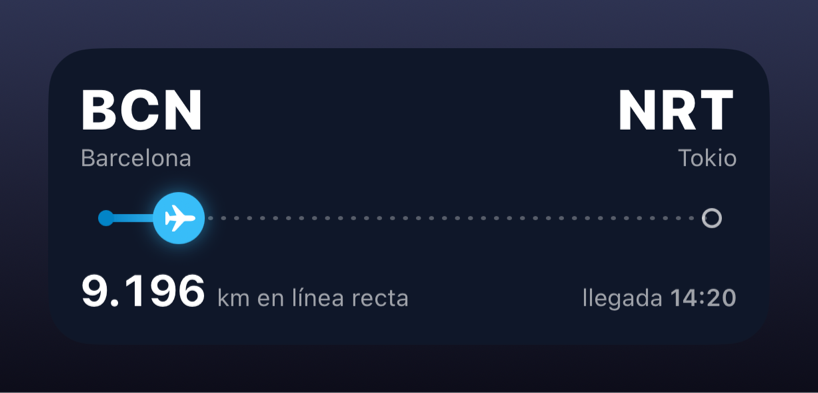
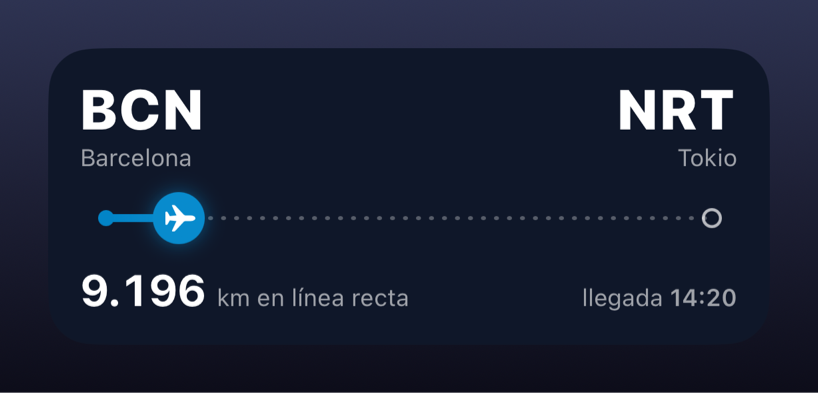
La chapa del viaje cambia de color con el degradado a medida que se avanza
El degradado del trayecto se reparte ahora por el camino ENTERO y se va
descubriendo al avanzar, y la chapa del que viaja toma el color del punto
donde está. Antes el degradado se repartía solo en lo recorrido, así que la
punta de la línea y la chapa eran siempre del color final. El icono de dentro
se pone claro u oscuro según lo clara que sea la chapa en ese punto. Igual en
la barra, en el semicírculo y en la Isla Dinámica.

Claude-Session: https://claude.ai/code/session_01AusuMMBoqBUXFPruSb5ppE

Changed region(s): [[0.1528, 0.4885, 0.2751, 0.6412]]

diff --git a/ios/Sources/Compartido/VistasViaje.swift b/ios/Sources/Compartido/VistasViaje.swift
@@ -69,8 +69,8 @@ public struct PinturaDeViaje {
     public let trayectoFin: Color
     public let texto: Color
     public let apagado: Color
-    /// El del icono dentro de la chapa.
-    public let sobreChapa: Color
+    private let hexInicio: String
+    private let hexFin: String
 
     private static let oscuro = Color(red: 0.06, green: 0.09, blue: 0.16)
 
@@ -80,19 +80,44 @@ public struct PinturaDeViaje {
         trayectoFin = Color(hexContador: c.trayecto2 ?? c.trayecto)
         texto = Self.luminancia(c.fondo) > 0.5 ? Self.oscuro : .white
         apagado = texto.opacity(0.6)
-        sobreChapa = Self.luminancia(c.trayecto2 ?? c.trayecto) > 0.5 ? Self.oscuro : .white
+        hexInicio = c.trayecto
+        hexFin = c.trayecto2 ?? c.trayecto
+    }
+
+    /// El color del trayecto en un punto, de 0 (la salida) a 1 (la llegada).
+    ///
+    /// Es el de la CHAPA del que viaja: va cambiando a medida que avanza, a
+    /// juego con la punta de la línea, que en ese punto es de ese mismo color.
+    /// Con un solo color, es siempre ese.
+    public func trayecto(en f: Double) -> Color {
+        ColoresContador.mezcla(hexInicio, hexFin, f)
+    }
+
+    /// El del icono dentro de la chapa en ese punto: claro u oscuro según lo
+    /// clara que sea la chapa ahí, que en un degradado cambia por el camino.
+    public func sobreChapa(en f: Double) -> Color {
+        let k = min(1, max(0, f))
+        let a = Self.componentes(hexInicio), b = Self.componentes(hexFin)
+        let l = Self.luminancia(r: a.0 + (b.0 - a.0) * k, g: a.1 + (b.1 - a.1) * k, b: a.2 + (b.2 - a.2) * k)
+        return l > 0.5 ? Self.oscuro : .white
+    }
+
+    private static func componentes(_ hex: String) -> (Double, Double, Double) {
+        var r: CGFloat = 0, g: CGFloat = 0, b: CGFloat = 0, a: CGFloat = 0
+        UIColor(Color(hexContador: hex)).getRed(&r, green: &g, blue: &b, alpha: &a)
+        return (Double(r), Double(g), Double(b))
+    }
+
+    private static func luminancia(r: Double, g: Double, b: Double) -> Double {
+        func lineal(_ v: Double) -> Double { v <= 0.03928 ? v / 12.92 : pow((v + 0.055) / 1.055, 2.4) }
+        return 0.2126 * lineal(r) + 0.7152 * lineal(g) + 0.0722 * lineal(b)
     }
 
     /// Lo claro que se ve un color, de 0 a 1: la luminancia relativa de las
     /// normas de accesibilidad, donde el verde pesa mucho más que el azul.
     public static func luminancia(_ hex: String) -> Double {
-        var r: CGFloat = 0, g: CGFloat = 0, b: CGFloat = 0, a: CGFloat = 0
-        UIColor(Color(hexContador: hex)).getRed(&r, green: &g, blue: &b, alpha: &a)
-        func lineal(_ v: CGFloat) -> Double {
-            let v = Double(v)
-            return v <= 0.03928 ? v / 12.92 : pow((v + 0.055) / 1.055, 2.4)
-        }
-        return 0.2126 * lineal(r) + 0.7152 * lineal(g) + 0.0722 * lineal(b)
+        let c = componentes(hex)
+        return luminancia(r: c.0, g: c.1, b: c.2)
     }
 }
 
@@ -153,11 +178,16 @@ public struct BarraDeViaje: View {
                 }
                 .stroke(pintura.texto.opacity(0.3),
                         style: StrokeStyle(lineWidth: 2, lineCap: .round, dash: [0.5, 6]))
-                // Lo hecho, lleno.
-                Capsule()
-                    .fill(LinearGradient(colors: [pintura.trayecto, pintura.trayectoFin],
-                                         startPoint: .leading, endPoint: .trailing))
-                    .frame(width: max(0, x - r), height: 4)
+                // Lo hecho, lleno. El degradado es del trayecto ENTERO y se va
+                // descubriendo: así la punta de la línea es del color de ese
+                // punto del camino, el mismo que la chapa. Repartido solo en lo
+                // hecho, la punta era siempre del color final.
+                LinearGradient(colors: [pintura.trayecto, pintura.trayectoFin],
+                               startPoint: .leading, endPoint: .trailing)
+                    .frame(width: max(0, g.size.width - chapa), height: 4)
+                    .mask(alignment: .leading) {
+                        Capsule().frame(width: max(0, x - r), height: 4)
+                    }
                     .offset(x: r, y: medio - 2)
                 // Los dos extremos: el de salida lleno, el de llegada hueco.
                 Circle().fill(pintura.trayecto)
@@ -170,10 +200,10 @@ public struct BarraDeViaje: View {
                 Image(systemName: transporte.simbolo)
                     .font(.system(size: chapa * 0.5, weight: .bold))
                     .scaleEffect(x: transporte.miraALaIzquierda ? -1 : 1)
-                    .foregroundStyle(pintura.sobreChapa)
+                    .foregroundStyle(pintura.sobreChapa(en: progreso))
                     .frame(width: chapa, height: chapa)
-                    .background(Circle().fill(pintura.trayectoFin))
-                    .shadow(color: pintura.trayectoFin.opacity(0.5), radius: 5)
+                    .background(Circle().fill(pintura.trayecto(en: progreso)))
+                    .shadow(color: pintura.trayecto(en: progreso).opacity(0.5), radius: 5)
                     .position(x: x, y: medio)
             }
         }
@@ -380,7 +410,7 @@ public struct IslaViajeInicio: View {
         Image(systemName: datos.transporte.simbolo)
             .font(.system(size: 14, weight: .bold))
             .scaleEffect(x: datos.transporte.miraALaIzquierda ? -1 : 1)
-            .foregroundStyle(datos.pintura.trayectoFin)
+            .foregroundStyle(datos.pintura.trayecto(en: datos.llegado ? 1 : datos.progreso))
     }
 }
 
@@ -410,12 +440,13 @@ public struct IslaViajeMinima: View {
         ZStack {
             Circle().stroke(Color.white.opacity(0.2), lineWidth: 2.5)
             Circle().trim(from: 0, to: datos.llegado ? 1 : datos.progreso)
-                .stroke(p.trayectoFin, style: StrokeStyle(lineWidth: 2.5, lineCap: .round))
+                .stroke(p.trayecto(en: datos.llegado ? 1 : datos.progreso),
+                        style: StrokeStyle(lineWidth: 2.5, lineCap: .round))
                 .rotationEffect(.degrees(-90))
             Image(systemName: datos.transporte.simbolo)
                 .font(.system(size: 9, weight: .bold))
                 .scaleEffect(x: datos.transporte.miraALaIzquierda ? -1 : 1)
-                .foregroundStyle(p.trayectoFin)
+                .foregroundStyle(p.trayecto(en: datos.llegado ? 1 : datos.progreso))
         }
         .frame(width: 22, height: 22)
     }

diff --git a/ios/Tests/LaminaArcoTests.swift b/ios/Tests/LaminaArcoTests.swift
@@ -92,6 +92,28 @@ final class LaminaArcoTests: XCTestCase {
                             restanteKm: total, progreso: 0)
     }
 
+    /// La chapa cambia de color con el degradado a medida que se avanza.
+    func testPintaLaChapaConElDegradado() throws {
+        let colores = ColoresDeViaje(fondo: "#3b0764", trayecto: "#f472b6", trayecto2: "#f59e0b")
+        func d(_ p: Double, _ t: TransporteDeViaje) -> DatosDeViaje {
+            var x = datos(p); x.colores = colores; x.transporte = t; return x
+        }
+        func fila(_ v: some View) -> some View {
+            v.frame(width: 361).background(Color(hexContador: colores.fondo))
+                .clipShape(RoundedRectangle(cornerRadius: 22, style: .continuous))
+        }
+        try pinta(sobreFondo(VStack(spacing: 10) {
+            rotulo("Semicírculo · 10 %, 50 %, 90 %")
+            fila(TarjetaDelViaje(datos: d(0.1, .avion)))
+            fila(TarjetaDelViaje(datos: d(0.5, .avion)))
+            fila(TarjetaDelViaje(datos: d(0.9, .avion)))
+            rotulo("Barra · 10 %, 50 %, 90 %")
+            fila(TarjetaDelViaje(datos: d(0.1, .tren)))
+            fila(TarjetaDelViaje(datos: d(0.5, .tren)))
+            fila(TarjetaDelViaje(datos: d(0.9, .tren)))
+        }), "04-chapa-con-degradado")
+    }
+
     func testPintaLaPropuestaDelArco() throws {
         try pinta(sobreFondo(VStack(spacing: 12) {
             rotulo("Nombres largos · al salir")
@@ -133,6 +155,23 @@ final class LaminaArcoTests: XCTestCase {
                 }
             }
         }
+    }
+
+    /// La chapa va del color de salida al de llegada, y su icono se lee sobre
+    /// ella aunque el degradado vaya de un color claro a uno oscuro.
+    func testLaChapaSigueElDegradado() {
+        let p = PinturaDeViaje(ColoresDeViaje(fondo: "#000000", trayecto: "#ffffff", trayecto2: "#000000"))
+        func componentes(_ c: Color) -> [CGFloat] {
+            var r: CGFloat = 0, g: CGFloat = 0, b: CGFloat = 0, a: CGFloat = 0
+            UIColor(c).getRed(&r, green: &g, blue: &b, alpha: &a)
+            return [r, g, b]
+        }
+        XCTAssertEqual(componentes(p.trayecto(en: 0))[0], 1, accuracy: 0.01, "al salir, el de salida")
+        XCTAssertEqual(componentes(p.trayecto(en: 1))[0], 0, accuracy: 0.01, "al llegar, el de llegada")
+        XCTAssertEqual(componentes(p.trayecto(en: 0.5))[0], 0.5, accuracy: 0.01, "a mitad, a mitad")
+        // Sobre blanco, icono oscuro; sobre negro, icono blanco.
+        XCTAssertNotEqual(componentes(p.sobreChapa(en: 0)), componentes(p.sobreChapa(en: 1)))
+        XCTAssertEqual(componentes(p.sobreChapa(en: 1)), [1, 1, 1], "sobre la chapa negra, icono blanco")
     }
 
     /// Los km, con el punto de los millares aunque el móvil esté en español.

diff --git a/ios/Sources/Compartido/ArcoDeViaje.swift b/ios/Sources/Compartido/ArcoDeViaje.swift
@@ -47,16 +47,19 @@ public struct ArcoDeViaje: View {
                 Circle().strokeBorder(pintura.texto.opacity(0.7), lineWidth: 1.5)
                     .frame(width: 10, height: 10)
                     .position(geo.punto(1))
+                // La chapa, del color de la línea donde está: el degradado va de
+                // izquierda a derecha por todo el ancho, así que es el de su x.
+                let enLaLinea = g.size.width > 0 ? Double(aqui.x / g.size.width) : p
                 Image(systemName: transporte.simbolo)
                     .font(.system(size: chapa * 0.5, weight: .bold))
                     .scaleEffect(x: transporte.miraALaIzquierda ? -1 : 1)
                     // Siguiendo la curva: es lo que hace que se lea como un
                     // despegue y un aterrizaje, y no como un punto que sube.
                     .rotationEffect(.radians(geo.angulo(p)))
-                    .foregroundStyle(pintura.sobreChapa)
+                    .foregroundStyle(pintura.sobreChapa(en: enLaLinea))
                     .frame(width: chapa, height: chapa)
-                    .background(Circle().fill(pintura.trayectoFin))
-                    .shadow(color: pintura.trayectoFin.opacity(0.5), radius: 5)
+                    .background(Circle().fill(pintura.trayecto(en: enLaLinea)))
+                    .shadow(color: pintura.trayecto(en: enLaLinea).opacity(0.5), radius: 5)
                     .position(aqui)
             }
         }
